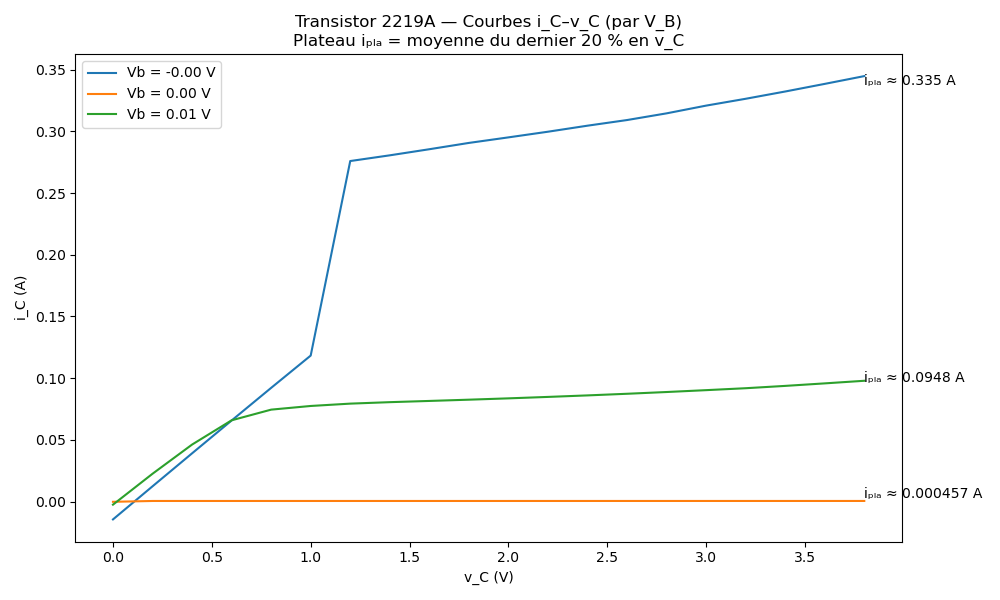
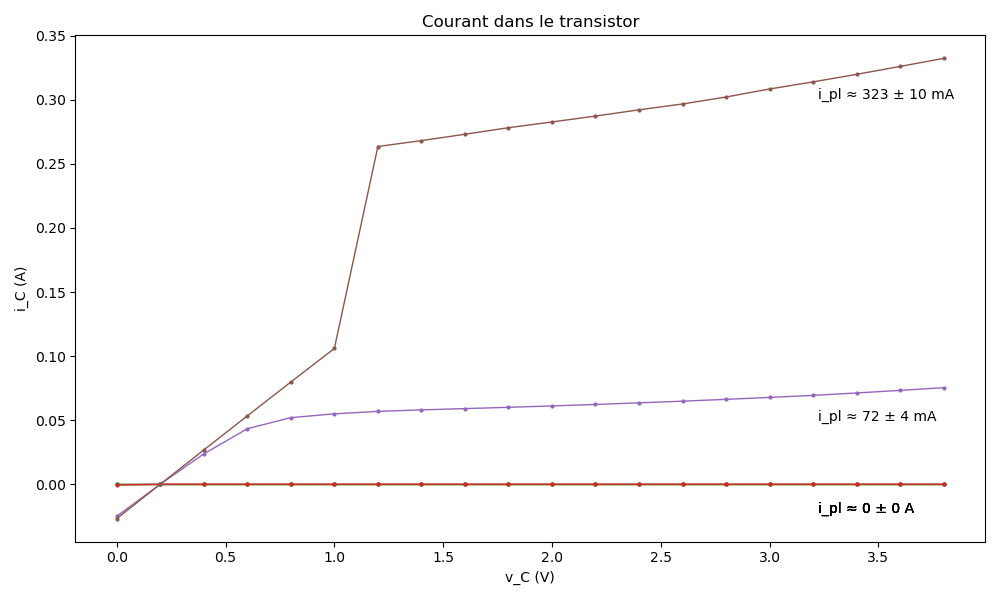
Graphique transistor final?

diff --git a/Labo3/Programmation/Graphique_transistor.py b/Labo3/Programmation/Graphique_transistor.py
@@ -1,0 +1,116 @@
+import pandas as pd
+import numpy as np
+import matplotlib.pyplot as plt
+from pathlib import Path
+import io, re, math
+
+DATA_FILE = Path("Labo3/Mesures/transistor_donnees_iv_01.lvm")
+OUT_PNG = Path("Labo3/Figures/transistor_ic_vc_ipla.png")
+OUT_PNG.parent.mkdir(parents=True, exist_ok=True)
+
+def read_lvm(path):
+    text = path.read_text(encoding="utf-8")
+    lines = text.splitlines()
+    num_re = re.compile(r"^\s*[-+]?(?:\d+|\d*[.,]\d+)\s")
+    start = next(i for i,l in enumerate(lines) if num_re.match(l))
+    df = pd.read_csv(io.StringIO("\n".join(lines[start:])),
+                     sep=r"\t|;", engine="python", decimal=",", header=None)
+    df = df.select_dtypes("number")
+    if df.shape[1] >= 3:
+        df = df.iloc[:, :3]; df.columns = ["Vc","Ic","Vb"]
+    else:
+        df = df.iloc[:, :2]; df.columns = ["Vc","Ic"]
+    return df
+
+def group_runs(df: pd.DataFrame):
+    if "Vb" in df.columns:
+        return {float(vb): sub.sort_values("Vc") for vb, sub in df.groupby("Vb")}
+    vc = df["Vc"].to_numpy()
+    idx = [0]
+    for i in range(1, len(vc)):
+        if vc[i] < 0.2*vc[i-1]:
+            idx.append(i)
+    idx.append(len(df))
+    return {k: df.iloc[idx[k]:idx[k+1]].sort_values("Vc") for k in range(len(idx)-1) if idx[k+1]-idx[k] > 2}
+
+I_EPS = 5e-4
+
+def baseline_correct(sub: pd.DataFrame):
+    v = sub["Vc"].to_numpy(); y = sub["Ic"].to_numpy()
+    w = v <= (v.min() + 0.15*(v.max()-v.min()))
+    off = np.median(y[w]) if np.any(w) else np.median(y[:max(3, len(y)//10)])
+    yc = y - off
+    yc[np.abs(yc) < I_EPS] = 0.0
+    out = sub.copy(); out["Ic"] = yc
+    return out
+
+def plateau_points(sub: pd.DataFrame):
+    x = sub["Vc"].to_numpy(); y = sub["Ic"].to_numpy()
+    dx = np.gradient(x); dy = np.gradient(y)
+    slope = np.abs(dy/np.where(dx==0, 1, dx))
+    mask_x = x >= (x.min() + 0.7*(x.max()-x.min()))
+    thr = 0.05*np.nanmax(np.abs(y))/(x.max()-x.min()+1e-12)
+    flat = (slope < thr) & mask_x
+    if np.count_nonzero(flat) >= 3:
+        return y[flat]
+    k = max(3, int(0.2*len(sub)))
+    return y[-k:]
+
+def ic95_student(sub):
+    pts = plateau_points(sub)
+    N = len(pts)
+    m = float(np.mean(pts))
+    s = float(np.std(pts, ddof=1)) if N >= 2 else 0.0
+    t = 1.96 if N>30 else {1:12.706,2:4.303,3:3.182,4:2.776,5:2.571,6:2.447,7:2.365,8:2.306,9:2.262,10:2.228}.get(N-1,2.0)
+    hw = t*s/np.sqrt(N) if N>=2 else 0.0
+    return m, hw
+
+def one_sig_unc(unc):
+    if unc == 0: return 0.0, 0
+    exp = math.floor(math.log10(abs(unc)))
+    lead = abs(unc) / (10**exp)
+    lead_r = round(lead)
+    if lead_r == 10:
+        lead_r = 1
+        exp += 1
+    return lead_r * (10**exp), exp
+
+def choose_unit(unc):
+    if unc == 0: return 1.0, "A"
+    for scale, unit in [(1.0,"A"), (1e3,"mA"), (1e6,"µA"), (1e9,"nA")]:
+        if 1 <= abs(unc)*scale < 1000:
+            return scale, unit
+    return 1.0, "A"
+
+def fmt_val_unc(val, unc):
+    scale, unit = choose_unit(unc if unc!=0 else abs(val))
+    v = val*scale; u = abs(unc)*scale
+    u1, exp = one_sig_unc(u)
+    dec = max(0, -exp)
+    v_r = round(v, dec)
+    fmt = f"{{:.{dec}f}}"
+    return f"{fmt.format(v_r)} ± {fmt.format(u1)} {unit}"
+
+df = read_lvm(DATA_FILE)
+groups = group_runs(df)
+
+plt.figure(figsize=(10,6))
+for _, sub in sorted(groups.items(), key=lambda kv: kv[0]):
+    sub = baseline_correct(sub)
+    x = sub["Vc"].to_numpy(); y = sub["Ic"].to_numpy()
+    plt.plot(x, y, marker='o', markersize=2, linewidth=1)
+    m, hw = ic95_student(sub)
+    x_annot = x.max() - 0.02*(x.max()-x.min())
+    plt.annotate(
+        f"i_pl ≈ {fmt_val_unc(m, hw)}",
+        xy=(x_annot, m),
+        xytext=(x_annot-0.5, m - 0.025),
+        ha="left", va="bottom", color="black"
+    )
+
+plt.xlabel("v_C (V)")
+plt.ylabel("i_C (A)")
+plt.title("Courant dans le transistor")
+plt.tight_layout()
+plt.savefig(OUT_PNG)
+plt.show()
